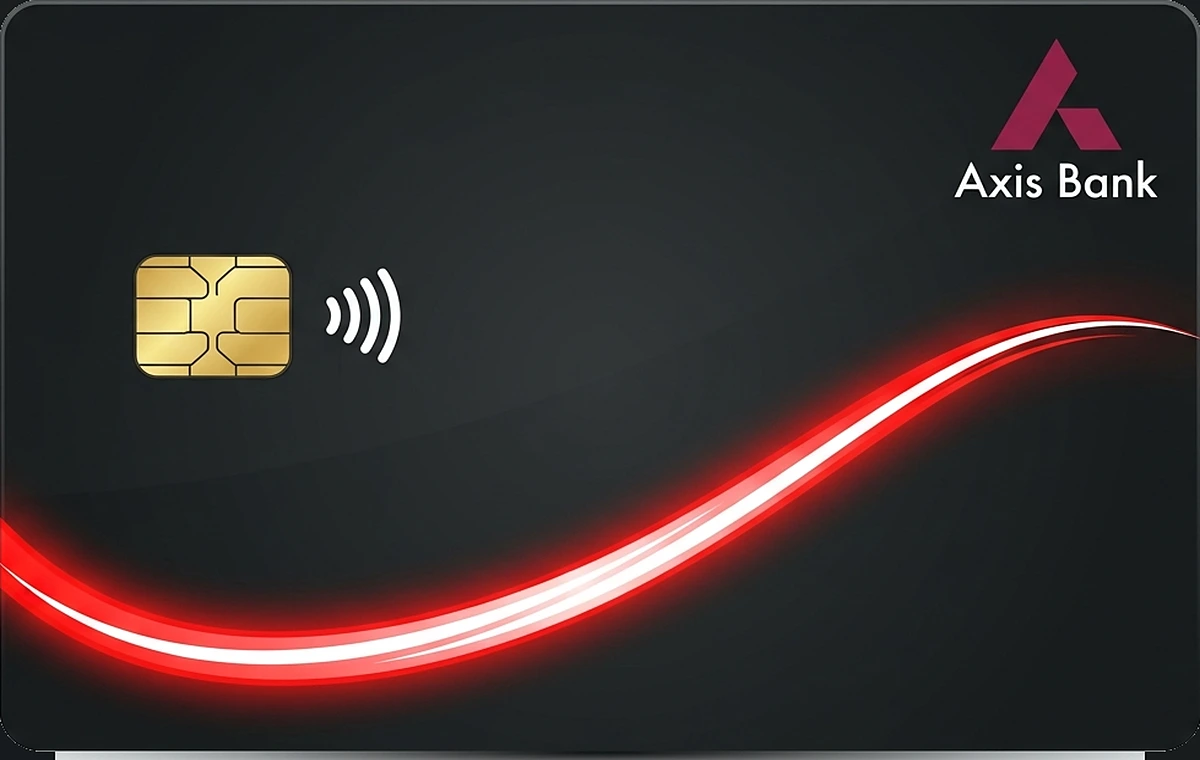
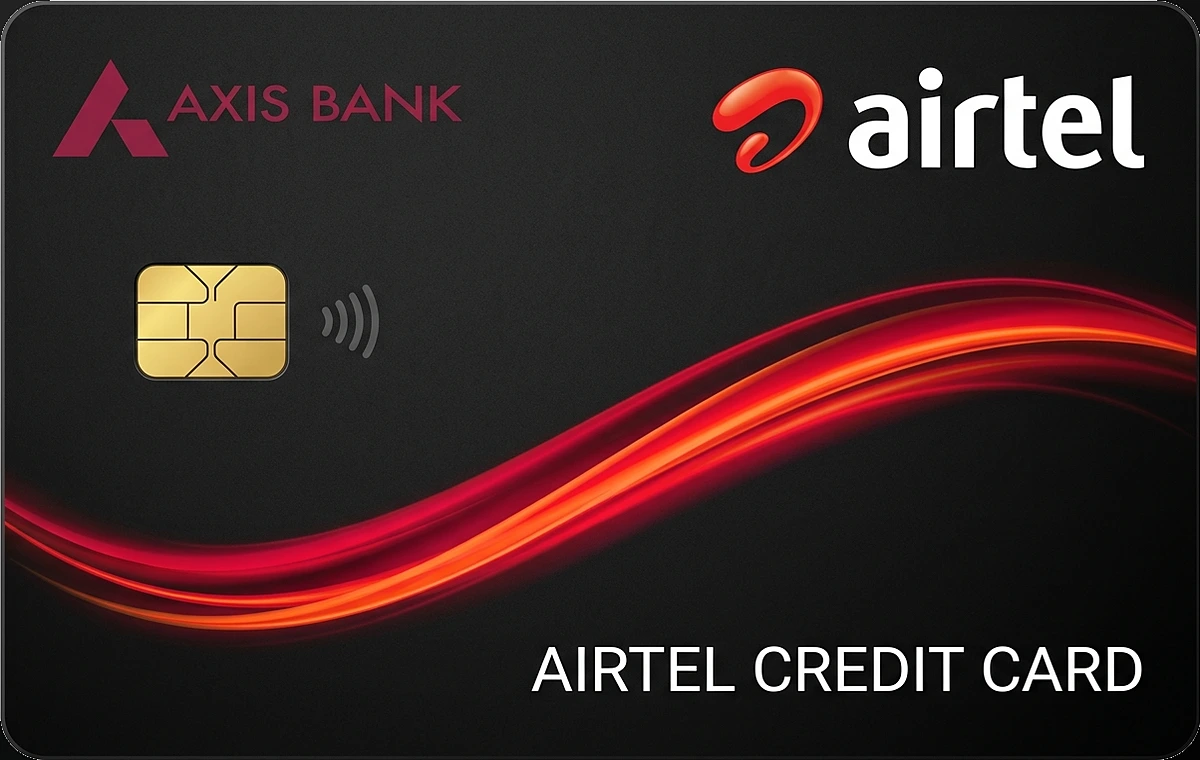
feat(credit): improve card name readability and upgrade 5 Axis Bank card artworks (Phase 1)

diff --git a/src/components/tabs/CreditTab.tsx b/src/components/tabs/CreditTab.tsx
@@ -2055,6 +2055,114 @@ function CCList({
           transition: "transform 0.18s ease, box-shadow 0.18s ease, border-color 0.18s ease",
         }}
       >
+        {/* ── CARD HEADER: Prominent, High-Contrast Card Name & Details ── */}
+        <div
+          style={{
+            display: "flex",
+            justifyContent: "space-between",
+            alignItems: "flex-start",
+            gap: 12,
+            marginBottom: 14,
+            paddingBottom: 10,
+            borderBottom: "1px solid var(--t-line)",
+          }}
+        >
+          <div style={{ minWidth: 0, flex: 1 }}>
+            <div
+              style={{
+                display: "flex",
+                alignItems: "center",
+                gap: 8,
+                flexWrap: "wrap",
+                marginBottom: 3,
+              }}
+            >
+              <h3
+                style={{
+                  margin: 0,
+                  fontSize: 18.5,
+                  fontWeight: 800,
+                  color: "var(--t-ink)",
+                  letterSpacing: "-0.02em",
+                  lineHeight: 1.25,
+                  wordBreak: "break-word",
+                }}
+              >
+                {c.issuer || c.cardName || "Credit Card"}
+              </h3>
+              {c.sharedGroup && (
+                <span
+                  style={{
+                    fontSize: 10,
+                    padding: "2px 8px",
+                    borderRadius: 6,
+                    background: "rgba(254, 240, 138, 0.18)",
+                    color: "var(--t-gold, #ca8a04)",
+                    fontWeight: 700,
+                    display: "inline-flex",
+                    alignItems: "center",
+                    gap: 3.5,
+                    border: "1px solid rgba(254, 240, 138, 0.4)",
+                  }}
+                  title={`Shared Limit Pool: ${c.sharedGroup}`}
+                >
+                  <Layers size={10.5} /> Pool: {c.sharedGroup}
+                </span>
+              )}
+            </div>
+            <div
+              style={{
+                display: "flex",
+                alignItems: "center",
+                gap: 8,
+                fontSize: 12.5,
+                color: "var(--t-muted)",
+                fontWeight: 600,
+                flexWrap: "wrap",
+              }}
+            >
+              <span
+                style={{
+                  textTransform: "uppercase",
+                  letterSpacing: "0.04em",
+                  fontWeight: 700,
+                  color: "var(--t-ink)",
+                }}
+              >
+                {c.network}
+              </span>
+              {c.last4 && (
+                <span style={{ fontFamily: "var(--font-mono, monospace)", fontWeight: 700 }}>
+                  •••• {c.last4}
+                </span>
+              )}
+              {c.cardType && (
+                <span style={{ textTransform: "capitalize" }}>• {c.cardType}</span>
+              )}
+              {c.bank && c.bank !== c.issuer && (
+                <span>• {c.bank}</span>
+              )}
+            </div>
+          </div>
+          <div style={{ display: "flex", alignItems: "center", gap: 6, flexShrink: 0 }}>
+            {c.owner && (
+              <span
+                style={{
+                  fontSize: 11,
+                  fontWeight: 700,
+                  padding: "3px 9px",
+                  borderRadius: 99,
+                  background: "var(--surface-2)",
+                  color: "var(--t-ink)",
+                  border: "1px solid var(--t-line)",
+                }}
+              >
+                {c.owner === "self" ? "Self" : c.owner}
+              </span>
+            )}
+          </div>
+        </div>
+
         {/* Authentic Physical / Virtual Card Face Hero with Real Card Art & Variant Switcher */}
         <CreditCardVisual
           card={c}

diff --git a/src/components/credit/CreditCardVisual.tsx b/src/components/credit/CreditCardVisual.tsx
@@ -596,28 +596,29 @@ export function CreditCardVisual({
               alignItems: "center",
               gap: 8,
               minWidth: 0,
-              background: "rgba(0, 0, 0, 0.45)",
-              backdropFilter: "blur(8px)",
-              WebkitBackdropFilter: "blur(8px)",
-              padding: "4px 8px",
-              borderRadius: 8,
-              border: "1px solid rgba(255, 255, 255, 0.2)",
-              boxShadow: "0 2px 8px rgba(0, 0, 0, 0.35)",
+              flex: 1,
+              maxWidth: "calc(100% - 90px)",
+              background: "rgba(10, 15, 26, 0.82)",
+              backdropFilter: "blur(12px)",
+              WebkitBackdropFilter: "blur(12px)",
+              padding: compact ? "4px 8px" : "5px 10px",
+              borderRadius: 9,
+              border: "1px solid rgba(255, 255, 255, 0.28)",
+              boxShadow: "0 4px 14px rgba(0, 0, 0, 0.45), inset 0 1px 0 rgba(255, 255, 255, 0.2)",
             }}
           >
             <BankLogo bankName={card.issuer || card.cardName || activeName} size={compact ? 22 : 26} />
-            <div style={{ minWidth: 0 }}>
+            <div style={{ minWidth: 0, flex: 1 }}>
               <div
                 style={{
-                  fontSize: compact ? 13 : 14.5,
+                  fontSize: compact ? 13.5 : 15,
                   fontWeight: 800,
                   color: "#ffffff",
                   whiteSpace: "nowrap",
                   overflow: "hidden",
                   textOverflow: "ellipsis",
                   letterSpacing: "-0.01em",
-                  textShadow: "0 1px 3px rgba(0,0,0,0.9)",
-                  maxWidth: compact ? 120 : 180,
+                  textShadow: "0 2px 4px rgba(0,0,0,0.95)",
                 }}
                 title={activeName}
               >
